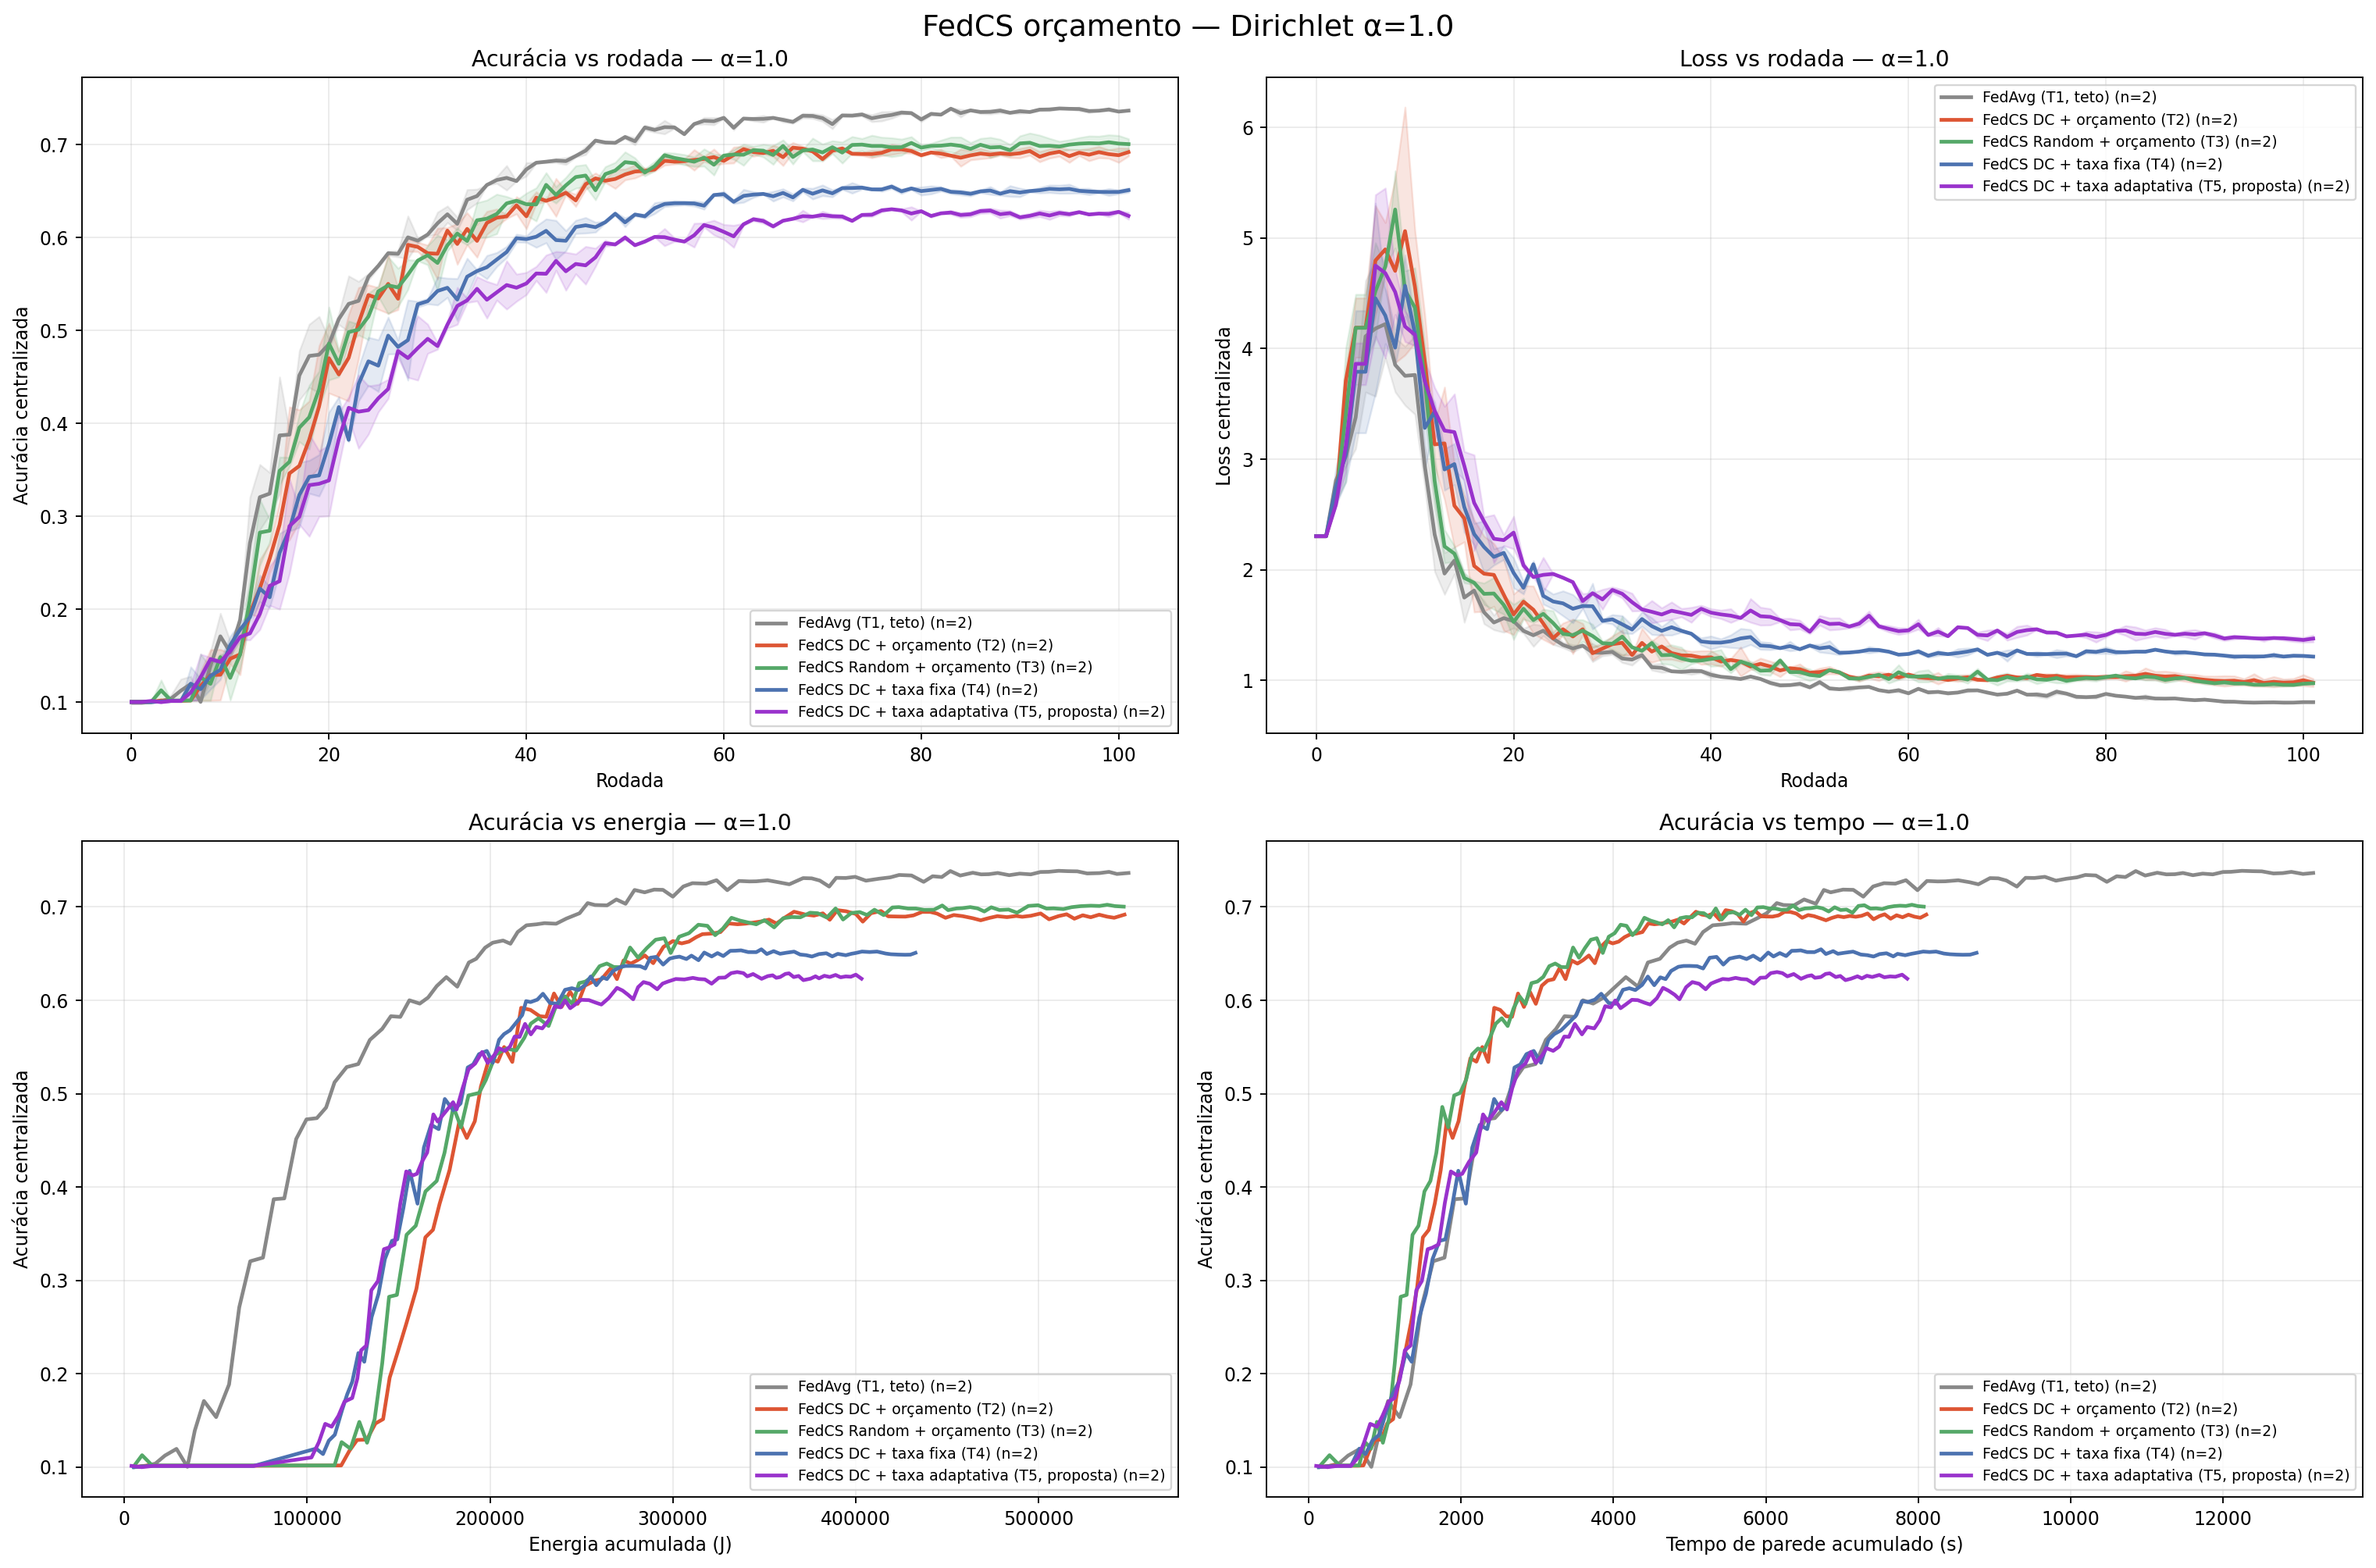
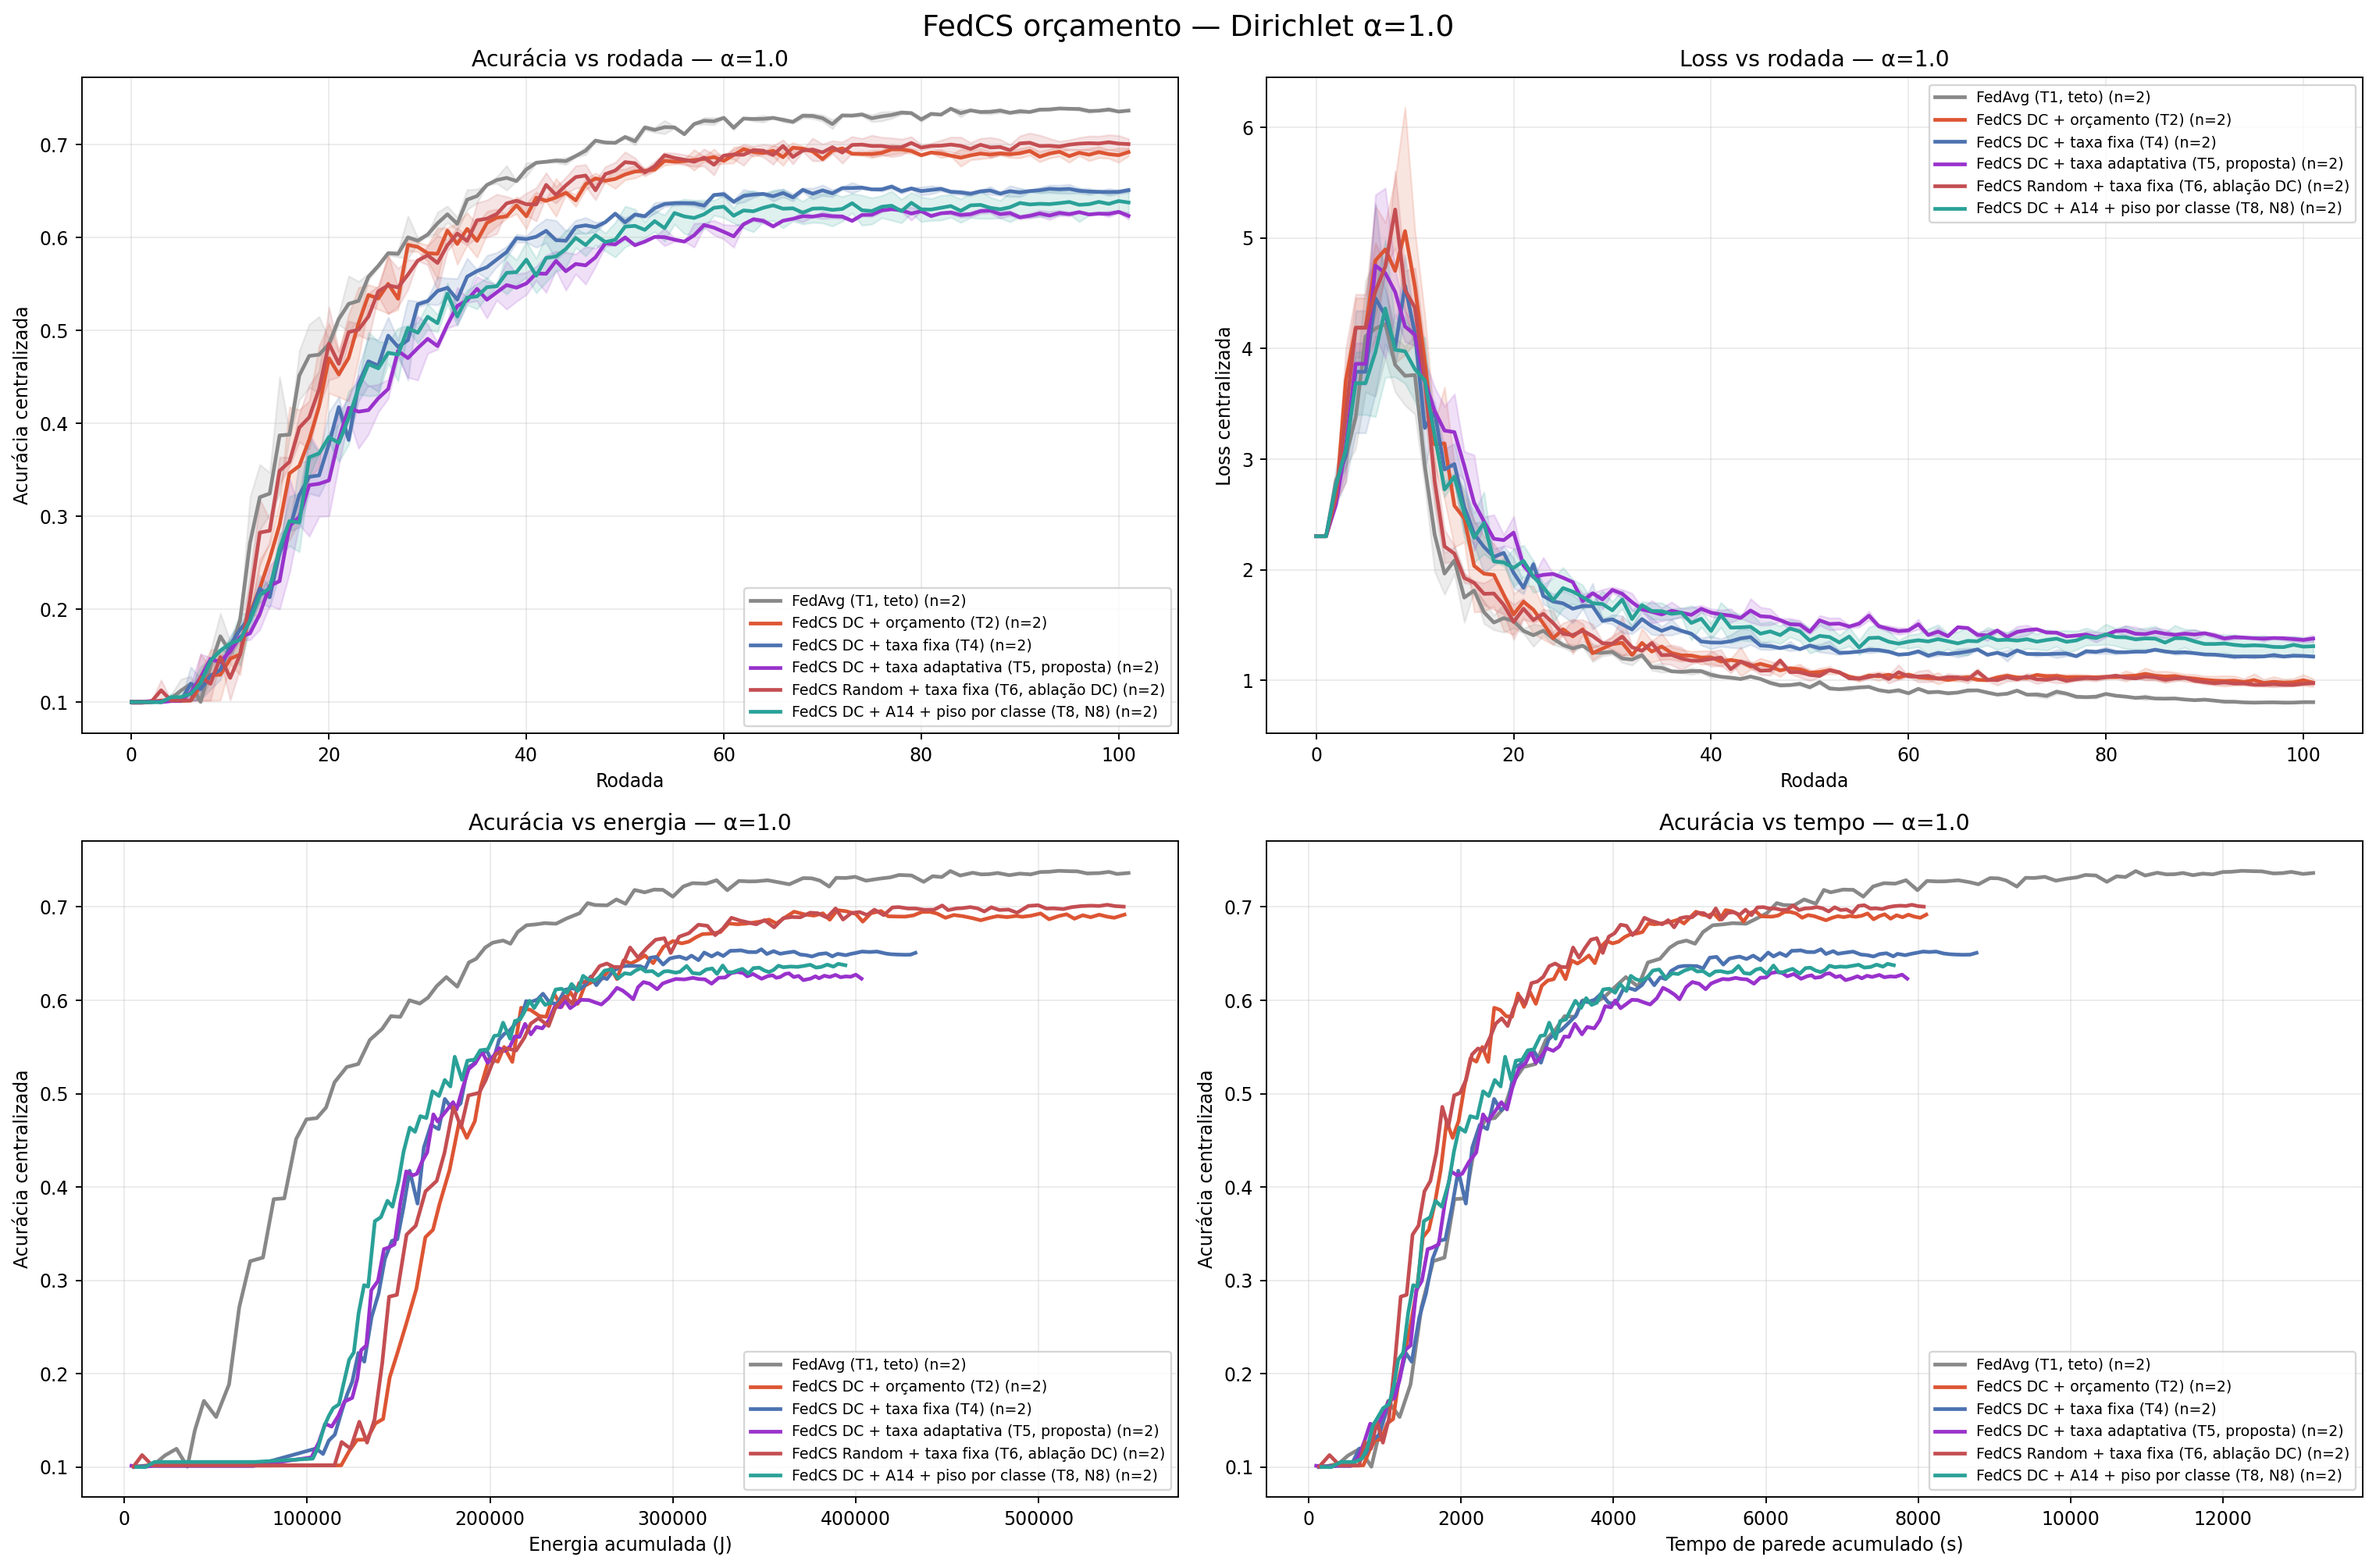
feat: script fiel do paper (CIFAR-10, ResNet-18, 10 clientes full) p/ ablacao DC vs Random

diff --git a/flower_code/outputs/steps12/plots/results_table.tex b/flower_code/outputs/steps12/plots/results_table.tex
@@ -1,16 +1,17 @@
 \begin{table}[htbp]
 \centering
-\caption{Acurácia final (\% média $\pm$ std entre seeds).}
+\caption{Acurácia (\% média $\pm$ std entre seeds), medida como média das últimas 20 rodadas (mais estável que a última rodada).}
 \label{tab:budget_results}
 \begin{tabular}{lcc}
 \toprule
 Método & $\alpha=0.1$ & $\alpha=1.0$ \\
 \midrule
-FedAvg (T1, teto) & $60.39 \pm 3.49$ & $73.64 \pm 0.01$ \\
-FedCS DC + orçamento (T2) & $49.02 \pm 5.06$ & $69.18 \pm 0.42$ \\
-FedCS Random + orçamento (T3) & $54.94 \pm 0.77$ & $70.04 \pm 0.57$ \\
-FedCS DC + taxa fixa (T4) & $50.74 \pm 2.56$ & $65.09 \pm 0.25$ \\
-FedCS DC + taxa adaptativa (T5, proposta) & $51.66 \pm 0.32$ & $62.32 \pm 0.37$ \\
+FedAvg (T1, teto) & $58.52 \pm 2.14$ & $73.62 \pm 0.00$ \\
+FedCS DC + orçamento (T2) & $50.36 \pm 1.44$ & $68.97 \pm 0.49$ \\
+FedCS DC + taxa fixa (T4) & $49.30 \pm 1.04$ & $64.98 \pm 0.30$ \\
+FedCS DC + taxa adaptativa (T5, proposta) & $50.08 \pm 0.59$ & $62.55 \pm 0.20$ \\
+FedCS Random + taxa fixa (T6, ablação DC) & $52.42 \pm 0.00$ & $69.92 \pm 0.78$ \\
+FedCS DC + A14 + piso por classe (T8, N8) & $48.19 \pm 0.80$ & $63.50 \pm 1.31$ \\
 \bottomrule
 \end{tabular}
 \end{table}
